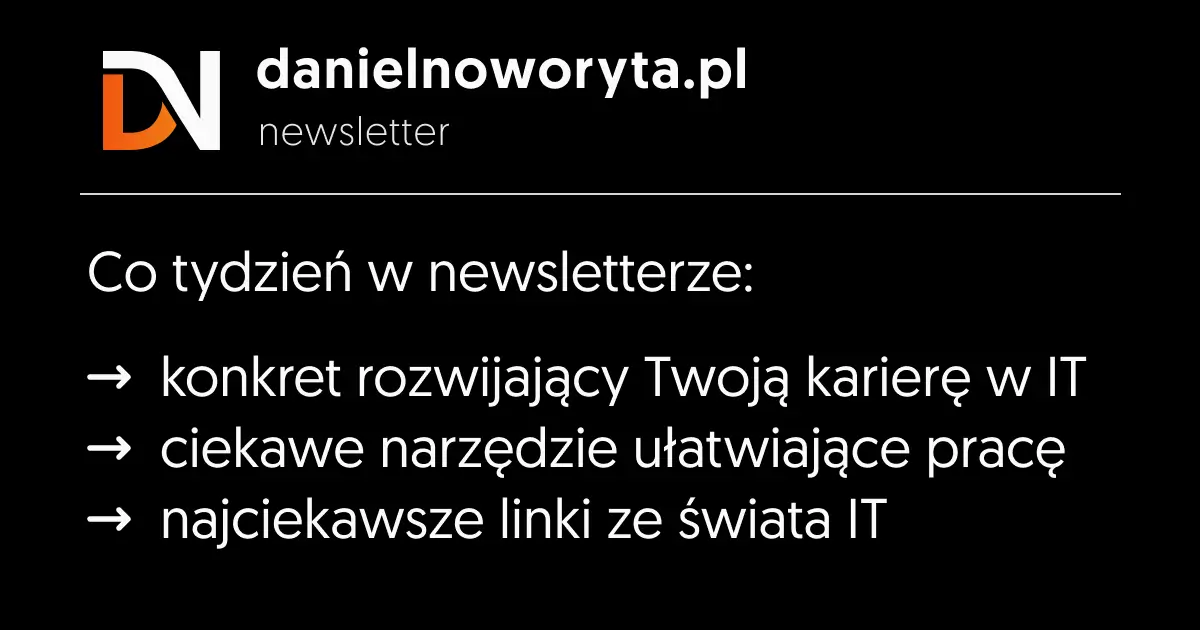
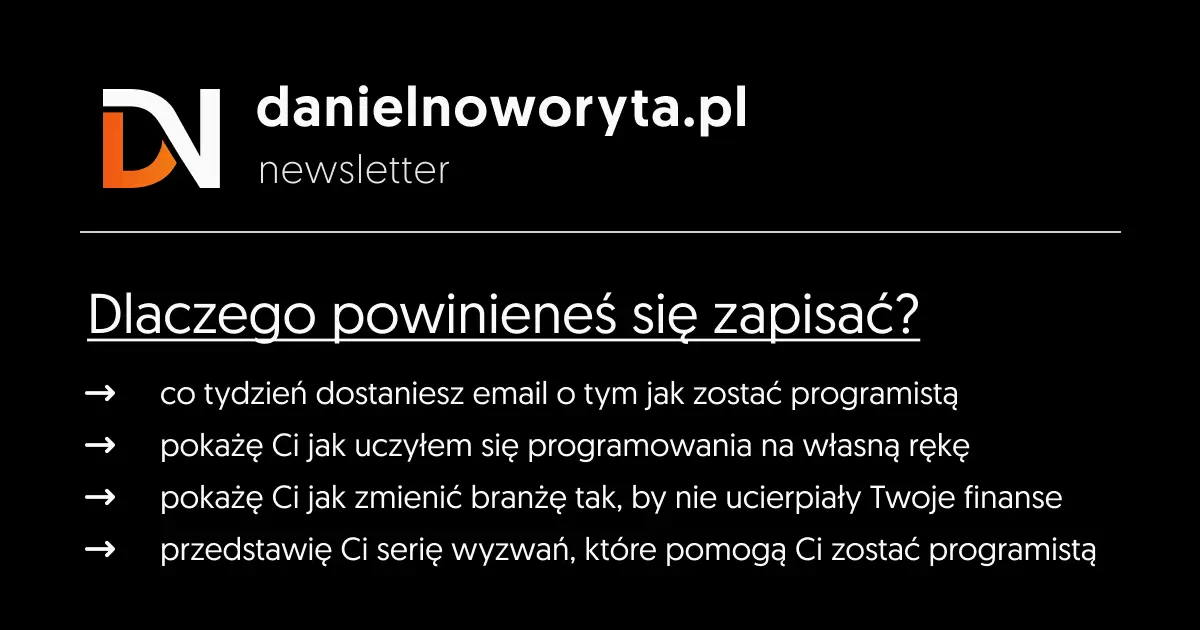
Change image and remove themes.

Changed region(s): [[0.0617, 0.3619, 0.925, 0.6635], [0.0617, 0.6937, 0.925, 0.9048], [0.0617, 0.0603, 0.925, 0.3317]]

diff --git a/src/app/newsletter/page.tsx b/src/app/newsletter/page.tsx
@@ -35,16 +35,21 @@ export default function NewsletterPage() {
 					<h2 className="pb-4 text-2xl md:text-4xl">
 						Newsletter <span className="font-semibold">Głowa Pełna Kodu</span>
 					</h2>
-					<p className="pb-4">
-						Dlaczego powinieneś się zapisać?{" "}
-						<span className="font-semibold underline">Co tydzień otrzymasz:</span>
-					</p>
+					<p className="pb-4 underline">Dlaczego powinieneś się zapisać? </p>
 					<ul className="list-disc pl-4">
-						<li>konkretną radę, która pomoże rozwinąć Twoją karierę w IT</li>
-						<li>najciekawsze linki ze świata IT</li>
-						<li>ciekawe narzędzie</li>
+						<li>pokażę Ci jak uczyłem się programowania na własną rękę</li>
+						<li>pokażę Ci jak zmienić branżę tak, by nie ucierpiały Twoje finanse</li>
+						<li>przedstawię Ci serię wyzwań, które pomogą Ci zostać programistą</li>
 					</ul>
+					<p className={"pt-4 text-center"}>
+						Wszystko to{" "}
+						<span className={"font-semibold underline"}>
+							bez motywacyjnego bełkotu i lania wody
+						</span>
+						. Konkrety, które sam chciałem dostać na początku.
+					</p>
 				</div>
+
 				<NewsletterForm />
 			</div>
 		</SectionWrapper>

diff --git a/src/components/footer.tsx b/src/components/footer.tsx
@@ -4,8 +4,8 @@ import { SectionWrapper } from "./section";
 
 export const Footer = () => {
 	return (
-		<div className="pt-8">
-			<div className="relative bg-[radial-gradient(35%_128px_at_50%_0%,theme(backgroundColor.white/5%),transparent)] py-16 lg:px-8 lg:py-16">
+		<div>
+			<div className="relative bg-[radial-gradient(35%_128px_at_50%_0%,theme(backgroundColor.white/5%),transparent)] py-8 lg:px-8">
 				<div className="absolute inset-x-12 top-0 h-px bg-gradient-to-r from-transparent via-foreground/30 to-transparent"></div>
 				<footer>
 					<SectionWrapper className={"flex w-full flex-col justify-center"}>

diff --git a/src/app/layout.tsx b/src/app/layout.tsx
@@ -36,7 +36,7 @@ export default function RootLayout({ children }: { children: React.ReactNode }) 
 	return (
 		<html className="h-full scroll-smooth antialiased" lang="pl" suppressHydrationWarning>
 			<body className="h-full select-none">
-				<ThemeProvider attribute="class" defaultTheme="dark" enableSystem disableTransitionOnChange>
+				<ThemeProvider attribute="class" disableTransitionOnChange>
 					<Header />
 					{children}
 					<Footer />
